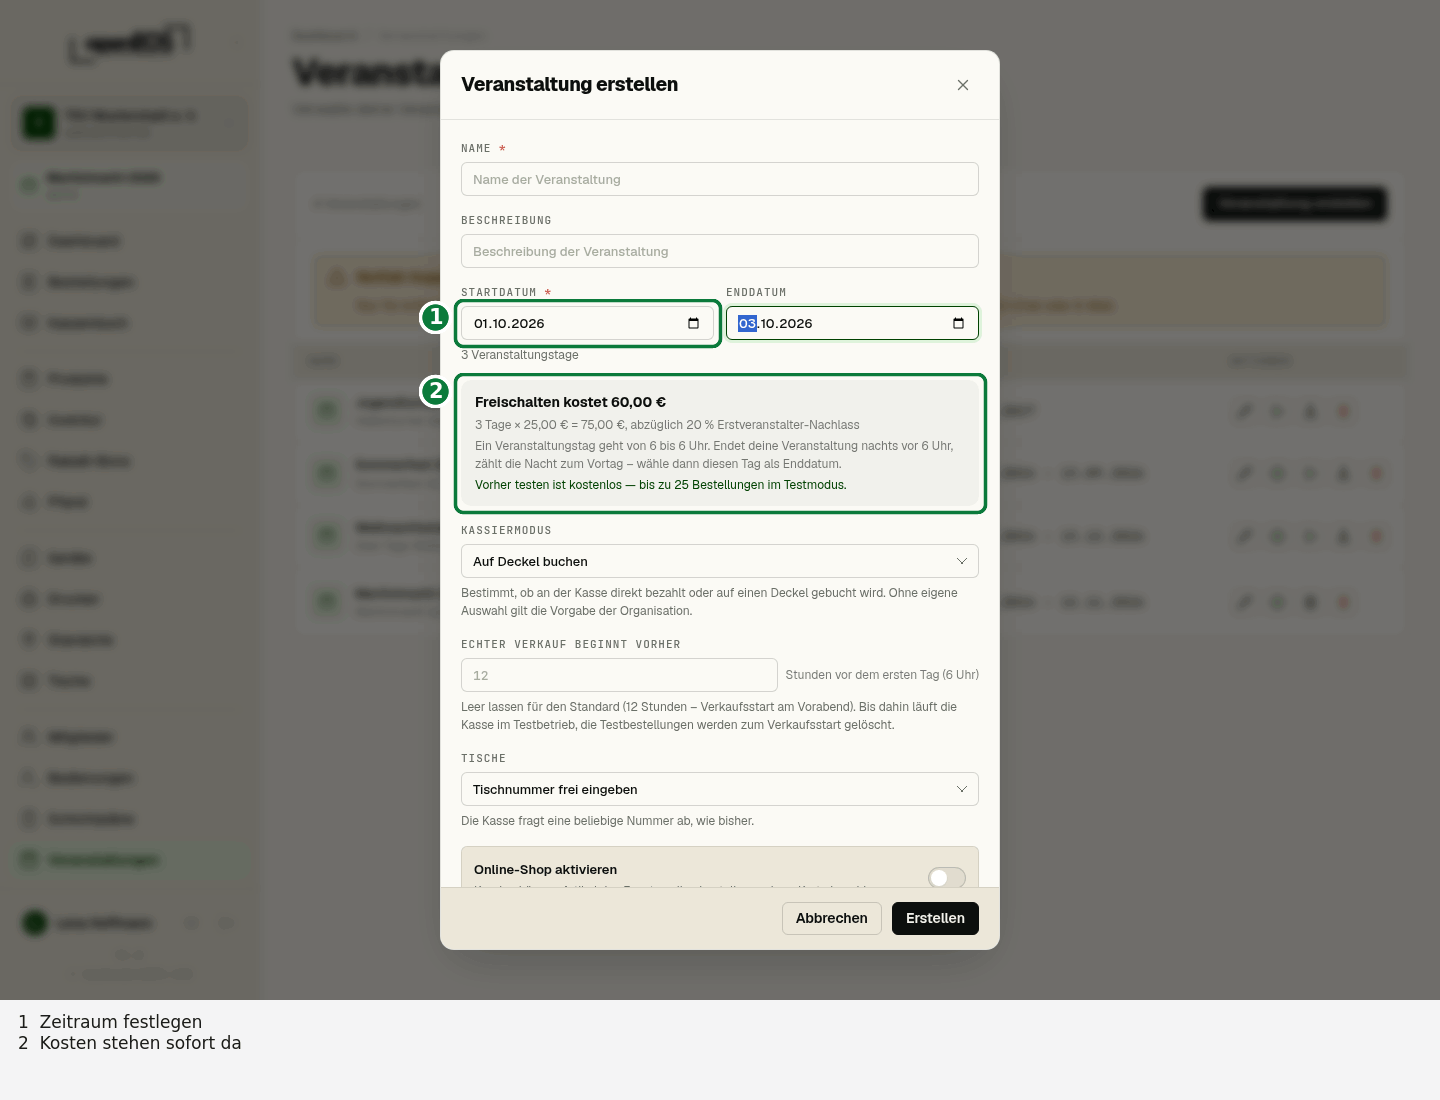
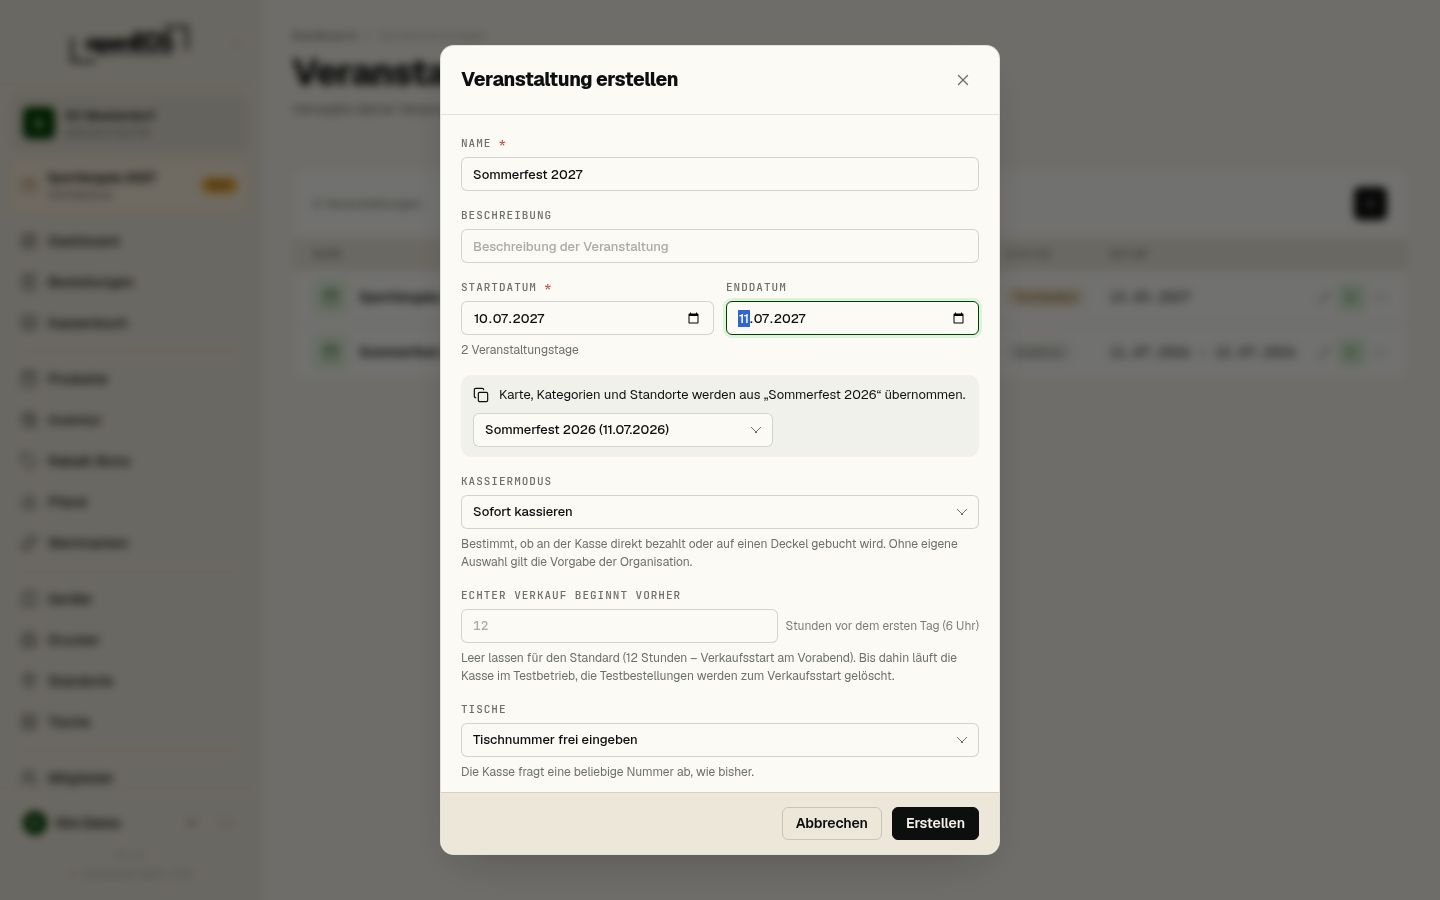
Events and products: take over a menu, duplicate events, CSV export

diff --git a/docs/veranstaltungen.md b/docs/veranstaltungen.md
@@ -21,6 +21,7 @@ Du findest den Bereich über **Veranstaltungen** in der Seitenleiste.
    - **Name** (Pflicht) – z. B. „Sommerfest 2026“
    - **Beschreibung** – optionaler Zusatztext
    - **Startdatum** und **Enddatum** – ohne Enddatum dauert die Veranstaltung einen Tag
+   - **Übernehmen aus** – welche Karte die neue Veranstaltung mitbekommt, siehe [unten](#uebernehmen)
    - **Kassiermodus** – sofort kassieren oder auf Deckel buchen, siehe [unten](#kassiermodus)
    - **Echter Verkauf beginnt vorher** – wie viele Stunden vor dem ersten Tag echt verkauft wird, siehe [Verkaufsstart am Vorabend](#verkaufsstart)
    - **Tische** – ob und wie die Kassen nach einem Tisch fragen, siehe [unten](#tische)
@@ -30,6 +31,28 @@ Du findest den Bereich über **Veranstaltungen** in der Seitenleiste.
 ![Veranstaltung erstellen](/img/screens/de/events-dialog.png)
 
 Alle Angaben lassen sich später über **Bearbeiten** ändern. Änderst du Kassiermodus oder Tische während des Betriebs, übernehmen die Kassen die neue Einstellung von selbst.
+
+### Karte aus einer anderen Veranstaltung {/* #uebernehmen */}
+
+Beim Anlegen übernimmt OpenEOS **Kategorien, Produkte und Standorte** aus einer früheren Veranstaltung – voreingestellt ist die mit dem jüngsten Beginn. Im Dialog steht zum Beispiel *Karte, Kategorien und Standorte werden aus „Sommerfest 2026“ übernommen*; daneben wählst du eine andere Veranstaltung oder **Nichts übernehmen**.
+
+Mit dabei sind Preise, Steuersätze, Pfand, Optionen, Bilder, Favoriten, Druckeinstellungen und die Zuordnung zu den Standorten samt deren Druckern. Der **Bestand** beginnt bei 0. Bestellungen, Zahlungen und Auswertungen bleiben bei der alten Veranstaltung. Nachträglich einzelne Produkte holst du auf der Seite [Produkte](./produkte.md#aus-veranstaltung).
+
+### Veranstaltung duplizieren {/* #duplizieren */}
+
+Für ein Fest, das sich wiederholt, wählst du im Menü **⋯** der Zeile **Veranstaltung duplizieren** und gibst **Name** und **Zeitraum** der neuen Veranstaltung an.
+
+![Veranstaltung duplizieren](/img/screens/de/events-duplicate.png)
+
+| Kommt mit | Bleibt bei der alten Veranstaltung |
+|---|---|
+| Kategorien, Produkte und Standorte | Bestand (außer du wählst **Bestand der Produkte übernehmen**) |
+| Einstellungen: Kassiermodus, Tische und Bereiche, Vorlauf, Vorverkauf, Shop – die Öffnungstage um denselben Abstand verschoben | Freischaltung und Bezahlung, TSE |
+| Schichtpläne als **Entwurf**, Aufgaben und Schichten verschoben | Anmeldungen und Helfer |
+| Wertmarken nur für diese Veranstaltung | Verkaufte und eingelöste Marken |
+| Bedienungen nur für diese Veranstaltung – mit **neuen PINs** | Bestellungen, Zahlungen, Abrechnungen, Inventuren |
+
+Gibt es Bedienungen, zeigt OpenEOS ihre neuen PINs direkt danach **einmalig** an; von dort druckst du den PIN-Zettel. Schichtpläne und Bedienungen kommen nur mit, wenn du das jeweilige Recht hast. Liegt ein Öffnungstag des Shops nicht im neuen Zeitraum, fällt er weg – prüfe die Zeiten, wenn das neue Fest länger oder kürzer ist.
 
 ## Kassiermodus {/* #kassiermodus */}
 
@@ -215,6 +238,7 @@ Neu angelegte Veranstaltungen sind zunächst **Inaktiv**. In der Tabelle findest
 | **Aktivieren** | macht die Veranstaltung aktiv; ist sie noch nicht bezahlt, öffnet sich zuerst der Dialog **Veranstaltung aktivieren** (siehe [Bezahlen](#bezahlen)) |
 | **Testmodus** | schaltet eine inaktive Veranstaltung in den Testmodus |
 | **Deaktivieren** | setzt die Veranstaltung wieder auf **Inaktiv** |
+| **Veranstaltung duplizieren** | legt eine Kopie für einen neuen Termin an, siehe [oben](#duplizieren) |
 | **Löschen** | löscht die Veranstaltung nach einer Rückfrage |
 
 Aktiviere die gewünschte Veranstaltung – sie erscheint dann mit ihrer Phase (zum Beispiel **Geplant** oder **Aktiv**) und wird oben links in der Seitenleiste als aktive Veranstaltung angezeigt. Erst danach lassen sich Produkte pflegen und Bestellungen erfassen.

diff --git a/i18n/en/docusaurus-plugin-content-docs/current/veranstaltungen.md b/i18n/en/docusaurus-plugin-content-docs/current/veranstaltungen.md
@@ -21,6 +21,7 @@ You can find this section via **Events** in the sidebar.
    - **Name** (required) — e.g. "Sommerfest 2026"
    - **Description** — optional additional text
    - **Start date** and **End date** — without an end date the event lasts one day
+   - **Take over from** — which menu the new event starts with, see [below](#uebernehmen)
    - **Checkout mode** — pay immediately or run a tab, see [below](#kassiermodus)
    - **Real sales start earlier** — how many hours before the first day real sales start, see [Sales start the evening before](#verkaufsstart)
    - **Tables** — whether and how the tills ask for a table, see [below](#tische)
@@ -30,6 +31,28 @@ You can find this section via **Events** in the sidebar.
 ![Create event](/img/screens/en/events-dialog.png)
 
 You can change everything later via **Edit**. If you change the checkout mode or tables while the event is running, the tills pick up the new setting by themselves.
+
+### Menu from another event {/* #uebernehmen */}
+
+When you create an event, OpenEOS takes over **categories, products and stations** from an earlier event — by default the one with the latest start. The dialog says, for example, *Menu, categories and stations are taken over from "Summer Fest 2026"*; next to it you choose another event or **Take over nothing**.
+
+This includes prices, tax rates, deposits, options, images, favorites, print settings and the assignment to stations with their printers. **Stock** starts at 0. Orders, payments and reports stay with the old event. To fetch individual products later, use the [Products](./produkte.md#aus-veranstaltung) page.
+
+### Duplicating an event {/* #duplizieren */}
+
+For a festival that takes place again, choose **Duplicate event** in the row's **⋯** menu and enter the **name** and **dates** of the new event.
+
+![Duplicate event](/img/screens/en/events-duplicate.png)
+
+| Taken over | Stays with the old event |
+|---|---|
+| Categories, products and stations | Stock (unless you choose **Take over product stock**) |
+| Settings: checkout mode, tables and areas, lead time, pre-sale, shop – opening days moved by the same number of days | Activation and payment, TSE |
+| Shift plans as **drafts**, jobs and shifts moved | Sign-ups and helpers |
+| Tokens that belong only to this event | Tokens sold and redeemed |
+| Servers that belong only to this event – with **new PINs** | Orders, payments, settlements, stocktakes |
+
+If there are servers, OpenEOS shows their new PINs right afterwards, **once only**; you can print the PIN sheet from there. Shift plans and servers come along only if you have the respective permission. Shop opening days outside the new dates are dropped – check the times if the new event is longer or shorter.
 
 ## Checkout mode {/* #kassiermodus */}
 
@@ -215,6 +238,7 @@ Newly created events are initially **Inactive**. In the table each row has icons
 | **Activate** | makes the event active; if it has not been paid yet, the **Activate event** dialog opens first (see [Paying](#paying)) |
 | **Test Mode** | switches an inactive event to test mode |
 | **Deactivate** | sets the event back to **Inactive** |
+| **Duplicate event** | creates a copy for a new date, see [above](#duplizieren) |
 | **Delete** | deletes the event after asking once more |
 
 Activate the desired event — it then appears with its phase (for example **Planned** or **Active**) and is displayed as the active event in the top left of the sidebar. Only after activation can you maintain products and record orders.

diff --git a/docs/produkte.md b/docs/produkte.md
@@ -96,6 +96,24 @@ Im Reiter **CSV**:
 3. Klicke auf **Vorschau**. Die Tabelle zeigt je Zeile, ob angelegt, aktualisiert, übersprungen wird oder ein Fehler vorliegt, und welche Kategorien und Pfand-Typen neu angelegt werden.
 4. Klicke auf **Import durchführen**.
 
+Die Spalte `taxRate` (Steuersatz in Prozent) ist optional; erlaubt sind nur Sätze, die deine Organisation führen darf. Beim **Aktualisieren** lässt eine leere Spalte `icon` das vorhandene Symbol oder Foto stehen.
+
+## Als CSV exportieren {/* #csv-export */}
+
+Das Symbol **Als CSV exportieren** lädt alle Produkte der aktiven Veranstaltung als Datei für Excel (Semikolon, Dezimalkomma). Sie hat genau das Format des Imports: Du kannst Preise in Excel ändern und die Datei mit **Aktualisieren** wieder einlesen. Optionsgruppen mit Aufpreisen und Vorauswahl sind dabei; nicht in der Datei stehen Fotos, Standorte, Favoriten und die Verschachtelung von Unterkategorien.
+
+## Aus Veranstaltung übernehmen {/* #aus-veranstaltung */}
+
+Mit **Aus Veranstaltung übernehmen** holst du Produkte aus einer anderen Veranstaltung deiner Organisation in die aktive. Du brauchst dafür das Recht **Veranstaltungen**.
+
+![Aus Veranstaltung übernehmen](/img/screens/de/products-copy-from.png)
+
+1. Wähle die **Veranstaltung**.
+2. Wähle Kategorien oder einzelne Produkte aus; am Anfang ist alles ausgewählt.
+3. Klicke auf **Produkte übernehmen**. Danach steht da, wie viele Produkte übernommen und wie viele übersprungen wurden.
+
+Kategorien mit gleichem Namen (auf derselben Ebene) werden zusammengeführt, ebenso [Standorte](./standorte.md). Gibt es ein Produkt in der Kategorie schon, wird es übersprungen – außer du wählst **Doppelte trotzdem übernehmen**. Der Bestand wird nicht übernommen. Schon beim Anlegen einer Veranstaltung geht das [automatisch](./veranstaltungen.md#uebernehmen).
+
 ## Aus Speisekarte importieren
 
 Hast du deine Speisekarte schon – als Aushang, Flyer oder PDF –, musst du sie nicht abtippen. Im Reiter **Speisekarte** liest OpenEOS sie ein und macht daraus einen Vorschlag für Kategorien und Produkte, den du prüfst und dann in einem Schritt anlegst. Diese Funktion gehört zum [Assistenten](./assistent.md); ein Admin schaltet ihn unter **Einstellungen → Organisation → Assistent** ein. Solange er aus ist, sehen Admins über der Produktliste den Hinweis *Speisekarte importieren? Schalte dafür die Assistent-Funktionen ein.* mit dem Link **Zu den Einstellungen**.

diff --git a/i18n/en/docusaurus-plugin-content-docs/current/produkte.md b/i18n/en/docusaurus-plugin-content-docs/current/produkte.md
@@ -96,6 +96,24 @@ In the **CSV** tab:
 3. Click **Preview**. The table shows per row whether it will be created, updated, skipped or has an error, and which categories and deposit types will be created.
 4. Click **Run import**.
 
+The `taxRate` column (VAT rate in percent) is optional; only rates your organization may use are accepted. With **Update**, an empty `icon` column keeps the existing icon or photo.
+
+## Exporting as CSV {/* #csv-export */}
+
+The **Export as CSV** icon downloads all products of the active event as a file for Excel (semicolon, decimal comma). It has exactly the import format: change prices in Excel and read the file back in with **Update**. Option groups with surcharges and preselection are included; photos, stations, favorites and the nesting of subcategories are not part of the file.
+
+## Taking products over from an event {/* #aus-veranstaltung */}
+
+**Take over from event** brings products from another event of your organization into the active one. You need the **Events** permission.
+
+![Take over from event](/img/screens/en/products-copy-from.png)
+
+1. Choose the **event**.
+2. Select categories or individual products; everything is selected at first.
+3. Click **Take over products**. Afterwards you see how many products were taken over and how many were skipped.
+
+Categories with the same name (on the same level) are merged, and so are [stations](./standorte.md). A product that already exists in the category is skipped – unless you choose **Take over duplicates anyway**. Stock is not taken over. When creating an event, this happens [automatically](./veranstaltungen.md#uebernehmen).
+
 ## Importing from a menu
 
 If you already have your menu – as a poster, flyer or PDF – you do not have to type it in. In the **Menu** tab, OpenEOS reads it and turns it into a suggestion for categories and products that you review and then create in one step. This feature is part of the [assistant](./assistent.md); an admin switches it on under **Settings → Organization → Assistant**. While it is off, admins see the note *Want to import a menu? Switch on the assistant features first.* with the link **Go to settings** above the product list.
